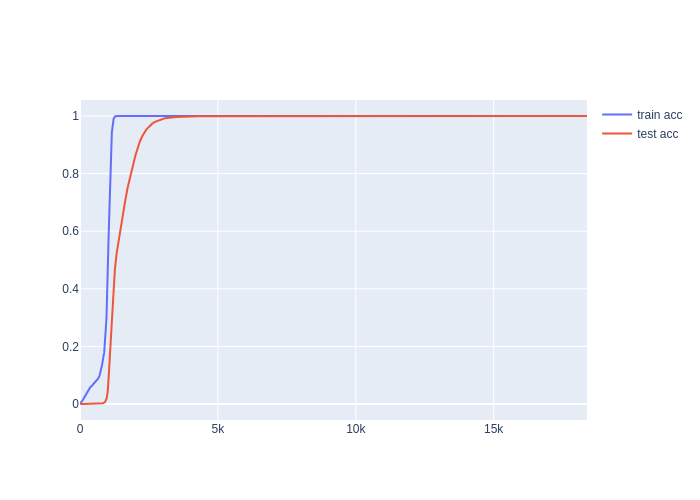
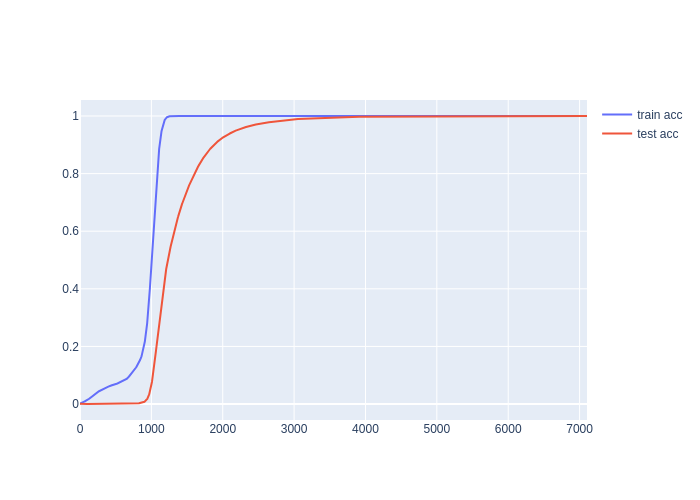
fix some bugs in the new reps

diff --git a/utils/groups.py b/utils/groups.py
@@ -194,9 +194,12 @@ class SymmetricGroup(Group):
             self.compute_standard_rep()
             self.compute_standard_sign_rep()
             self.compute_sign_rep()
-            self.compute_trivial_rep()
+            #self.compute_trivial_rep()
             if self.index == 4:
                 self.compute_S4_2d_rep()
+            if self.index == 6:
+                self.compute_S6_5d_a_rep()
+                self.compute_S6_5d_b_rep()
             self.all_data = self.get_all_data()[:, :2]
             self.alternating_data = self.get_subset_of_data([i for i in range(self.order) if self.signature(i)==1])[:, :2]
             self.compute_trace_tensor_cubes()
@@ -290,21 +293,21 @@ class SymmetricGroup(Group):
     def compute_S6_5d_a_rep(self):
         rep = {}
 
-        rep[Permutation(0, 1, 2, 3, 4, 5)] = torch.tensor(
+        rep[Permutation(0, 1, 2, 3, 4, 5)] = torch.tensor([
             [-1,  1, -1,  0,  0],
             [ 0,  0,  0,  1, -1],
             [ 0,  0,  1,  0, -1],
             [ 0, -1,  1,  1, -1],
-            [ 0, -1,  1,  0, -1]).float() 
+            [ 0, -1,  1,  0, -1]]).float() 
 
         rep[Permutation(5, 4, 3, 2, 1, 0)] = rep[Permutation(0, 1, 2, 3, 4, 5)].inverse()
 
-        rep[Permutation(5)(0,1)] = torch.tensor(
+        rep[Permutation(5)(0,1)] = torch.tensor([
             [ 1,  0,  0,  0,  0],
             [ 0,  1,  0,  0,  0],
             [ 0,  0,  1,  0,  0],
             [-1,  1,  0, -1,  0],
-            [-1,  0,  1,  0, -1],
+            [-1,  0,  1,  0, -1]],
         ).float() #(0, 1)
 
         self.S6_5d_a_reps = torch.zeros(self.order, 5, 5).cuda()
@@ -314,27 +317,27 @@ class SymmetricGroup(Group):
             for g in generator_product:
                 result = result @ rep[g]
             self.S6_5d_a_reps[i] = result
-        self.S6_5d_a_reps_orth = self.S6_5d_reps_a.reshape(self.order, 25)
+        self.S6_5d_a_reps_orth = self.S6_5d_a_reps.reshape(self.order, 25)
         self.S6_5d_a_reps_orth = torch.linalg.qr(self.S6_5d_a_reps_orth)[0]
 
     def compute_S6_5d_b_rep(self):
         rep = {}
 
-        rep[Permutation(0, 1, 2, 3, 4, 5)] = torch.tensor(
+        rep[Permutation(0, 1, 2, 3, 4, 5)] = torch.tensor([
             [ 1, -1, -1,  1,  0],
             [ 0, -1, -1,  0,  1],
             [ 0,  0, -1,  1,  0],
             [ 0,  0, -1,  0,  1],
-            [ 0, -1, -1,  1,  1]).float() 
+            [ 0, -1, -1,  1,  1]]).float() 
 
         rep[Permutation(5, 4, 3, 2, 1, 0)] = rep[Permutation(0, 1, 2, 3, 4, 5)].inverse()
 
-        rep[Permutation(5)(0,1)] = torch.tensor(
-            [ 1,  0,  0,  0,  0]
-            [ 0,  1,  0,  0,  0]
-            [ 0,  0,  1,  0,  0]
-            [-1,  1,  0, -1,  0]
-            [-1,  0,  1,  0, -1],
+        rep[Permutation(5)(0,1)] = torch.tensor([
+            [ 1,  0,  0,  0,  0],
+            [ 0,  1,  0,  0,  0],
+            [ 0,  0,  1,  0,  0],
+            [-1,  1,  0, -1,  0],
+            [-1,  0,  1,  0, -1]]
         ).float() #(0, 1)
 
         self.S6_5d_b_reps = torch.zeros(self.order, 5, 5).cuda()
@@ -344,7 +347,7 @@ class SymmetricGroup(Group):
             for g in generator_product:
                 result = result @ rep[g]
             self.S6_5d_b_reps[i] = result
-        self.S6_5d_b_reps_orth = self.S6_5d_reps_b.reshape(self.order, 25)
+        self.S6_5d_b_reps_orth = self.S6_5d_b_reps.reshape(self.order, 25)
         self.S6_5d_b_reps_orth = torch.linalg.qr(self.S6_5d_b_reps_orth)[0]
 
     def compute_trace_tensor_cube(self, all_data, rep, rep_name):

diff --git a/rep_theory/train.py b/rep_theory/train.py
@@ -24,7 +24,7 @@ else:
 
 track_metrics = True
 
-task_dir = "1L_MLP_sym_S5"
+task_dir = "1L_MLP_sym_S6"
 
 print(f'Training {task_dir}')
 
